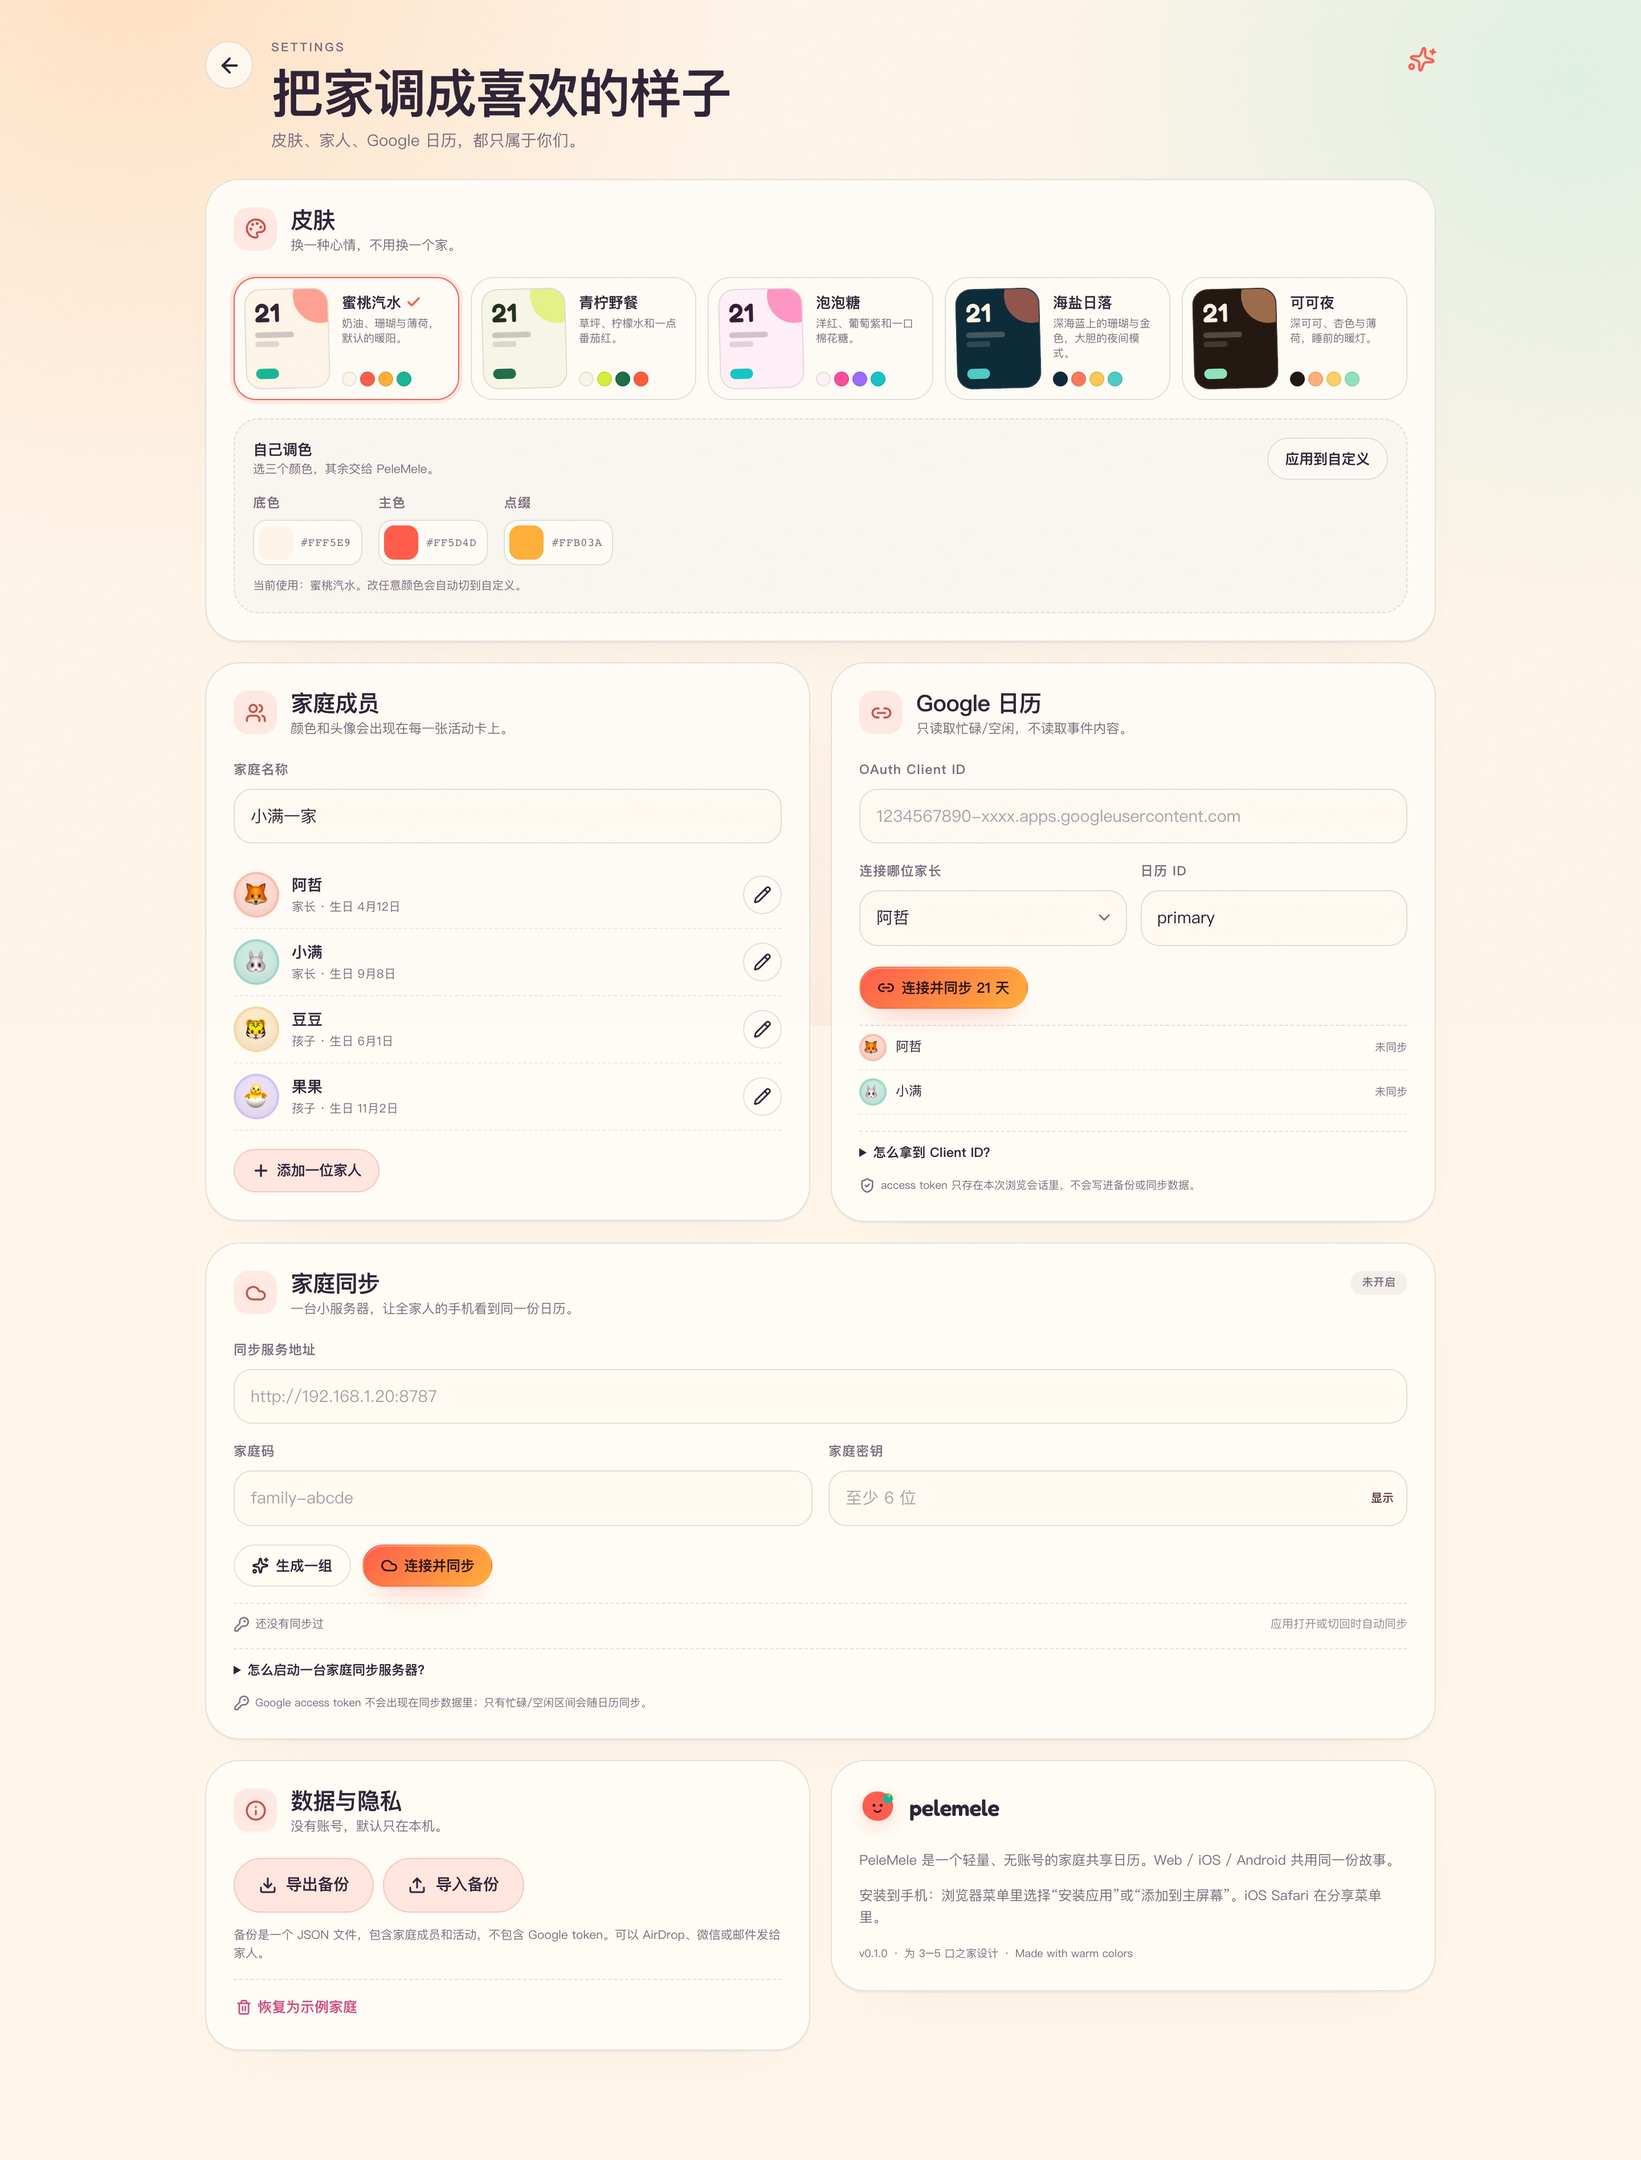
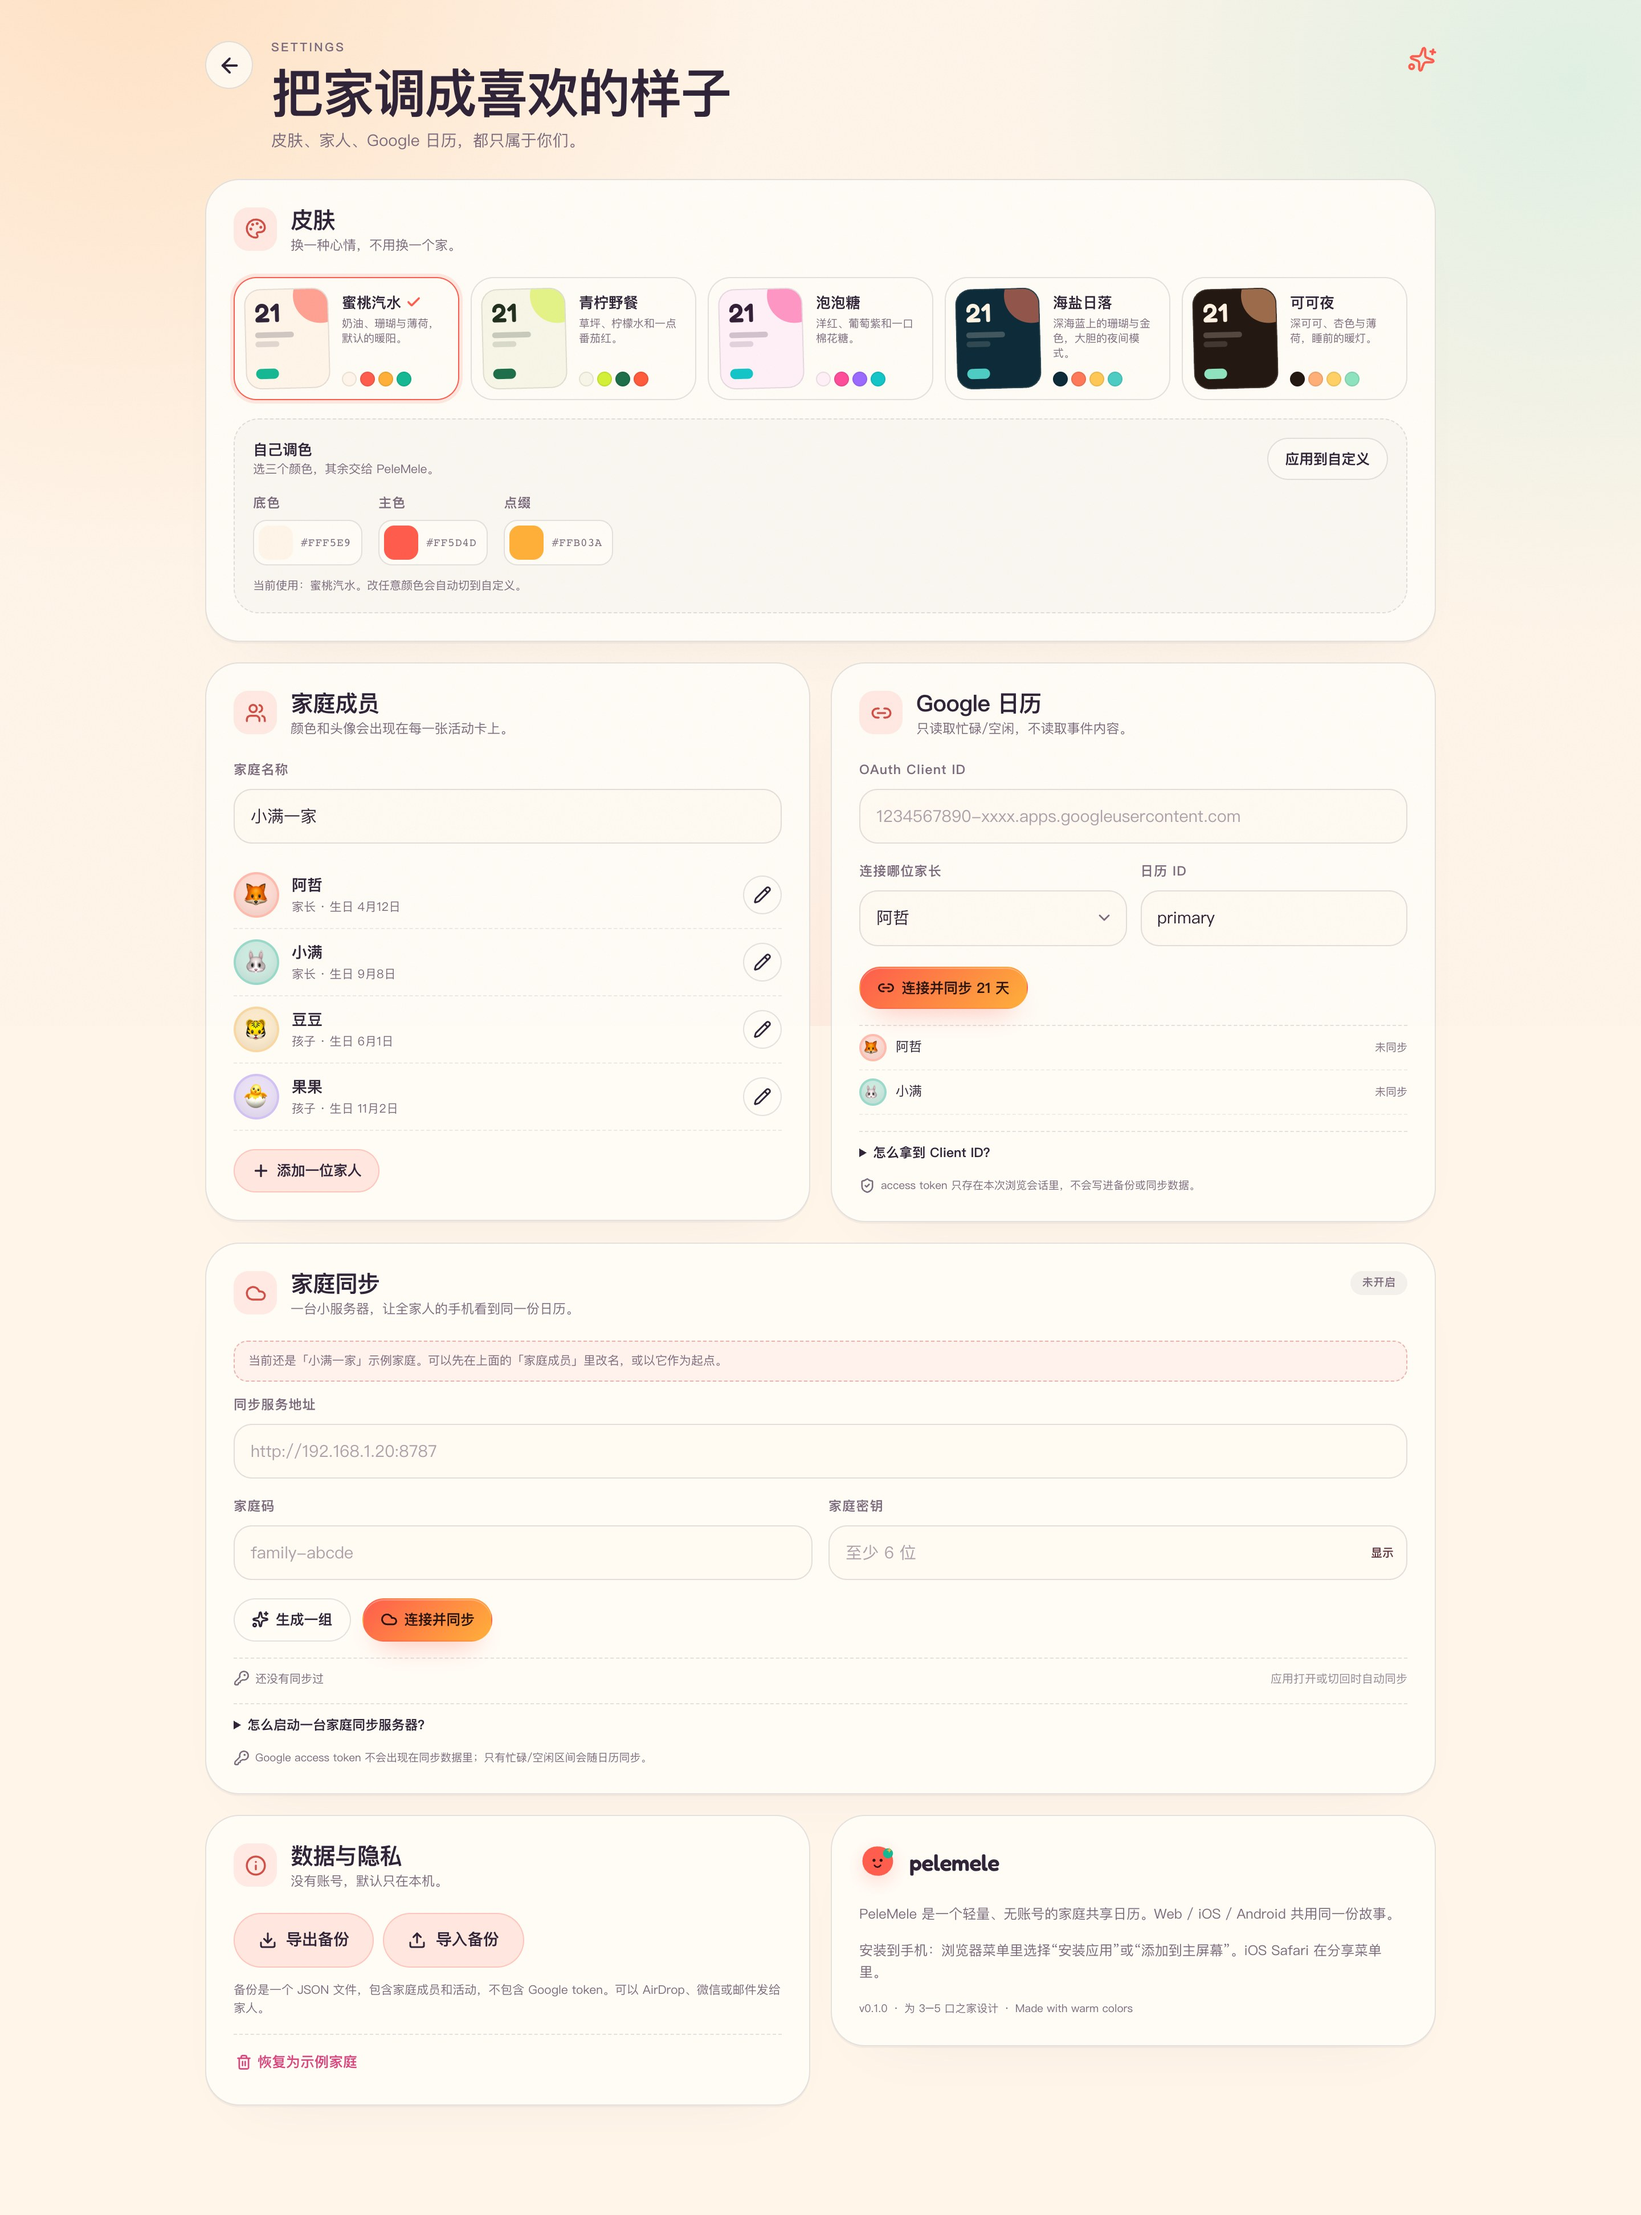
Make sample family sync-safe and finish verification

diff --git a/src/lib/reducer.ts b/src/lib/reducer.ts
@@ -73,6 +73,11 @@ function mergeGoogle(local: GoogleConfig, remote: GoogleConfig, preferRemote: bo
 }
 
 export function mergeStates(local: AppState, remote: AppState): AppState {
+  // A device that has never been customised should adopt the family room,
+  // never merge its random demo events into a real family calendar.
+  if (local.isSample) return remote;
+  if (remote.isSample) return local;
+
   const remotePrefsNewer = remote.prefsUpdatedAt > local.prefsUpdatedAt;
   const preferred = remotePrefsNewer ? remote : local;
   return {
@@ -80,6 +85,7 @@ export function mergeStates(local: AppState, remote: AppState): AppState {
     members: mergeById(local.members, remote.members),
     events: mergeById(local.events, remote.events),
     google: mergeGoogle(local.google, remote.google, remotePrefsNewer),
+    isSample: false,
     updatedAt: local.updatedAt > remote.updatedAt ? local.updatedAt : remote.updatedAt,
     prefsUpdatedAt: remotePrefsNewer ? remote.prefsUpdatedAt : local.prefsUpdatedAt,
   };
@@ -96,7 +102,7 @@ export function familyReducer(state: AppState, action: FamilyAction): AppState {
         updatedAt: stamp,
         deletedAt: null,
       };
-      return { ...state, events: upsertById(state.events, event), updatedAt: stamp };
+      return { ...state, events: upsertById(state.events, event), isSample: false, updatedAt: stamp };
     }
     case 'event/delete': {
       const stamp = now();
@@ -105,13 +111,20 @@ export function familyReducer(state: AppState, action: FamilyAction): AppState {
         events: state.events.map((event) =>
           event.id === action.id ? { ...event, deletedAt: stamp, updatedAt: stamp } : event,
         ),
+        isSample: false,
         updatedAt: stamp,
       };
     }
     case 'member/upsert': {
       const stamp = now();
       const member: Member = { ...action.member, updatedAt: stamp, deletedAt: null };
-      return { ...state, members: upsertById(state.members, member), updatedAt: stamp, prefsUpdatedAt: stamp };
+      return {
+        ...state,
+        members: upsertById(state.members, member),
+        isSample: false,
+        updatedAt: stamp,
+        prefsUpdatedAt: stamp,
+      };
     }
     case 'member/delete': {
       const stamp = now();
@@ -120,6 +133,7 @@ export function familyReducer(state: AppState, action: FamilyAction): AppState {
         members: state.members.map((member) =>
           member.id === action.id ? { ...member, deletedAt: stamp, updatedAt: stamp } : member,
         ),
+        isSample: false,
         updatedAt: stamp,
         prefsUpdatedAt: stamp,
       };
@@ -129,7 +143,7 @@ export function familyReducer(state: AppState, action: FamilyAction): AppState {
     case 'settings/custom-theme':
       return prefsTouch(state, { customTheme: action.theme, skin: action.theme ? 'custom' : state.skin });
     case 'settings/family-name':
-      return prefsTouch(state, { familyName: action.name.trim() || state.familyName });
+      return prefsTouch(state, { familyName: action.name.trim() || state.familyName, isSample: false });
     case 'settings/week-start':
       return prefsTouch(state, { weekStartsOn: action.value });
     case 'settings/google':

diff --git a/src/test/reducer.test.ts b/src/test/reducer.test.ts
@@ -50,12 +50,23 @@ describe('family reducer', () => {
     expect(next.skin).toBe('custom');
     expect(next.customTheme).toEqual(custom);
   });
+
+  it('marks the demo family as real as soon as the family is customised', () => {
+    const state = createSeedState(new Date(2026, 10, 19, 9, 0));
+    expect(state.isSample).toBe(true);
+    const renamed = familyReducer(state, { type: 'settings/family-name', name: '我们一家' });
+    expect(renamed.isSample).toBe(false);
+    const skinned = familyReducer(state, { type: 'settings/skin', skin: 'cocoa' });
+    expect(skinned.isSample).toBe(true);
+  });
 });
 
 describe('sync merge', () => {
   it('keeps the newer version of each event and respects tombstones', () => {
     const local = createSeedState(new Date(2026, 10, 19, 9, 0));
     const remote = createSeedState(new Date(2026, 10, 19, 9, 0));
+    local.isSample = false;
+    remote.isSample = false;
     local.events = [makeEvent('shared', '2026-11-19T10:00:00.000Z', '旧')];
     remote.events = [
       makeEvent('shared', '2026-11-19T11:00:00.000Z', '新'),
@@ -69,6 +80,8 @@ describe('sync merge', () => {
   it('merges Google busy data per member by freshest sync', () => {
     const local = createSeedState(new Date(2026, 10, 19, 9, 0));
     const remote = createSeedState(new Date(2026, 10, 19, 9, 0));
+    local.isSample = false;
+    remote.isSample = false;
     local.google.busy = [{ memberId: 'm-mom', start: '2026-11-20T01:00:00Z', end: '2026-11-20T02:00:00Z', source: 'google' }];
     local.google.busyMeta = { 'm-mom': { updatedAt: '2026-11-19T09:00:00Z', rangeStart: '', rangeEnd: '' } };
     remote.google.busy = [
@@ -83,5 +96,16 @@ describe('sync merge', () => {
     expect(merged.google.busy.filter((block) => block.memberId === 'm-mom')).toHaveLength(1);
     expect(merged.google.busy.find((block) => block.memberId === 'm-mom')?.start).toBe('2026-11-21T01:00:00Z');
     expect(merged.google.busy.some((block) => block.memberId === 'm-dad')).toBe(true);
+  });
+
+  it('lets an untouched demo device adopt an existing real room', () => {
+    const demo = createSeedState(new Date(2026, 10, 19, 9, 0));
+    const real = createSeedState(new Date(2026, 10, 19, 9, 0));
+    real.isSample = false;
+    real.familyName = '真实一家';
+    real.events = [makeEvent('real', '2026-11-19T10:00:00.000Z', '真实活动')];
+    expect(mergeStates(demo, real)).toBe(real);
+    expect(mergeStates(real, demo)).toBe(real);
+    expect(mergeStates(demo, demo).isSample).toBe(true);
   });
 });

diff --git a/src/test/sync.test.ts b/src/test/sync.test.ts
@@ -55,6 +55,7 @@ describe('sync client ↔ room server', () => {
     };
 
     const first = createSeedState(new Date(2026, 10, 19, 9, 0));
+    first.isSample = false;
     const created = await syncNow(config, first);
     expect(created.created).toBe(true);
     expect(created.revision).toBe(1);
@@ -70,6 +71,7 @@ describe('sync client ↔ room server', () => {
     expect(uploaded.revision).toBe(2);
 
     const secondDevice = createSeedState(new Date(2026, 10, 19, 10, 0));
+    secondDevice.isSample = false;
     secondDevice.events = secondDevice.events.filter((event) => event.title !== '电影夜 · 客厅');
     secondDevice.familyName = '小满一家（手机）';
     secondDevice.prefsUpdatedAt = new Date(Date.now() + 5000).toISOString();
@@ -77,5 +79,27 @@ describe('sync client ↔ room server', () => {
     const pulled = await syncNow(config, secondDevice);
     expect(pulled.state.familyName).toBe('小满一家（手机）');
     expect(pulled.state.events.some((event) => event.notes === '带上新买的灯')).toBe(true);
+  }, 20_000);
+
+  it('never merges the random demo events of a new device into a real room', async () => {
+    const config: SyncConfig = {
+      enabled: true,
+      url: `http://127.0.0.1:${PORT}`,
+      room: `adopt-${Date.now().toString(36)}`,
+      key: 'family-secret',
+    };
+
+    const real = createSeedState(new Date(2026, 10, 19, 9, 0));
+    real.isSample = false;
+    real.familyName = '真实一家';
+    const created = await syncNow(config, real);
+    const eventCount = created.state.events.length;
+
+    const freshPhone = createSeedState(new Date(2026, 10, 20, 9, 0));
+    expect(freshPhone.isSample).toBe(true);
+    const adopted = await syncNow(config, freshPhone);
+    expect(adopted.state.familyName).toBe('真实一家');
+    expect(adopted.state.events.length).toBe(eventCount);
+    expect(adopted.state.isSample).toBe(false);
   }, 20_000);
 });

diff --git a/src/screens/Together.tsx b/src/screens/Together.tsx
@@ -109,10 +109,17 @@ export function TogetherScreen() {
     });
   };
 
+  const openGoogleSettings = () => {
+    go('settings');
+    window.setTimeout(() => {
+      document.getElementById('google')?.scrollIntoView({ behavior: 'smooth', block: 'start' });
+    }, 220);
+  };
+
   async function refreshGoogle() {
     if (!state.google.clientId) {
       toast('在设置里填入 Google Client ID 后就能同步', 'info');
-      go('settings');
+      openGoogleSettings();
       return;
     }
     const memberId = state.google.connectedMemberId ?? parentIds[0];
@@ -270,7 +277,7 @@ export function TogetherScreen() {
               {syncing ? '同步中…' : '刷新'}
             </button>
           ) : (
-            <button type="button" className="button button--soft button--small" onClick={() => go('settings')}>
+            <button type="button" className="button button--soft button--small" onClick={openGoogleSettings}>
               <Link2 size={15} strokeWidth={2.4} /> 连接 Google
             </button>
           )}

diff --git a/src/styles.css b/src/styles.css
@@ -2596,6 +2596,18 @@ ol {
   grid-column: 1 / -1;
 }
 
+.sync-sample-note {
+  grid-column: 1 / -1;
+  margin: 0 0 12px;
+  padding: 9px 12px;
+  border: 1.5px dashed color-mix(in srgb, var(--primary) 30%, var(--line));
+  border-radius: 12px;
+  background: color-mix(in srgb, var(--primary) 6%, var(--surface));
+  color: var(--ink-soft);
+  font-size: 10.5px;
+  line-height: 1.5;
+}
+
 .secret-wrap {
   position: relative;
   display: block;
@@ -4232,6 +4244,10 @@ ol {
   }
 
   .sync-form .sync-url {
+    grid-column: auto;
+  }
+
+  .sync-sample-note {
     grid-column: auto;
   }
 

diff --git a/src/components/SyncSettings.tsx b/src/components/SyncSettings.tsx
@@ -78,6 +78,11 @@ export function SyncSettings() {
       </div>
 
       <div className="sync-form">
+        {state.isSample && (
+          <p className="sync-sample-note">
+            当前还是「{state.familyName}」示例家庭。可以先在上面的「家庭成员」里改名，或以它作为起点。
+          </p>
+        )}
         <label className="field sync-url">
           <span className="field-label">同步服务地址</span>
           <input

diff --git a/src/lib/storage.ts b/src/lib/storage.ts
@@ -121,6 +121,7 @@ export function coerceState(input: unknown, base = createSeedState()): AppState 
     customTheme: validCustomTheme(input.customTheme),
     weekStartsOn: input.weekStartsOn === 0 ? 0 : 1,
     onboardingSeen: Boolean(input.onboardingSeen),
+    isSample: input.isSample === true,
     updatedAt: str(input.updatedAt, new Date().toISOString()),
     prefsUpdatedAt: str(input.prefsUpdatedAt, str(input.updatedAt, new Date().toISOString())),
   };

diff --git a/src/lib/types.ts b/src/lib/types.ts
@@ -75,6 +75,8 @@ export interface AppState {
   /** 0 = Sunday, 1 = Monday. PeleMele is designed around Monday-first weeks. */
   weekStartsOn: 0 | 1;
   onboardingSeen: boolean;
+  /** True while the state is the untouched demo family. */
+  isSample: boolean;
   updatedAt: string;
   prefsUpdatedAt: string;
 }

diff --git a/src/lib/seed.ts b/src/lib/seed.ts
@@ -162,6 +162,7 @@ export function createSeedState(now = new Date()): AppState {
     customTheme: null,
     weekStartsOn: 1,
     onboardingSeen: false,
+    isSample: true,
     updatedAt: nowIso,
     prefsUpdatedAt: nowIso,
   };

diff --git a/docs/VERIFICATION.md b/docs/VERIFICATION.md
@@ -11,14 +11,14 @@ $ npx tsc --noEmit
 
 $ npm test
 Test Files  7 passed (7)
-     Tests  33 passed (33)
+     Tests  36 passed (36)
   Duration  ~3s
 
 $ npm run build
 ✓ 2459 modules transformed
 dist/index.html                        1.08 kB
 dist/assets/index-*.css               64.50 kB │ gzip: 12.89 kB
-dist/assets/index-*.js               362.94 kB │ gzip: 113.16 kB
+dist/assets/index-*.js               363.41 kB │ gzip: 113.32 kB
 ✓ built
 ```
 
